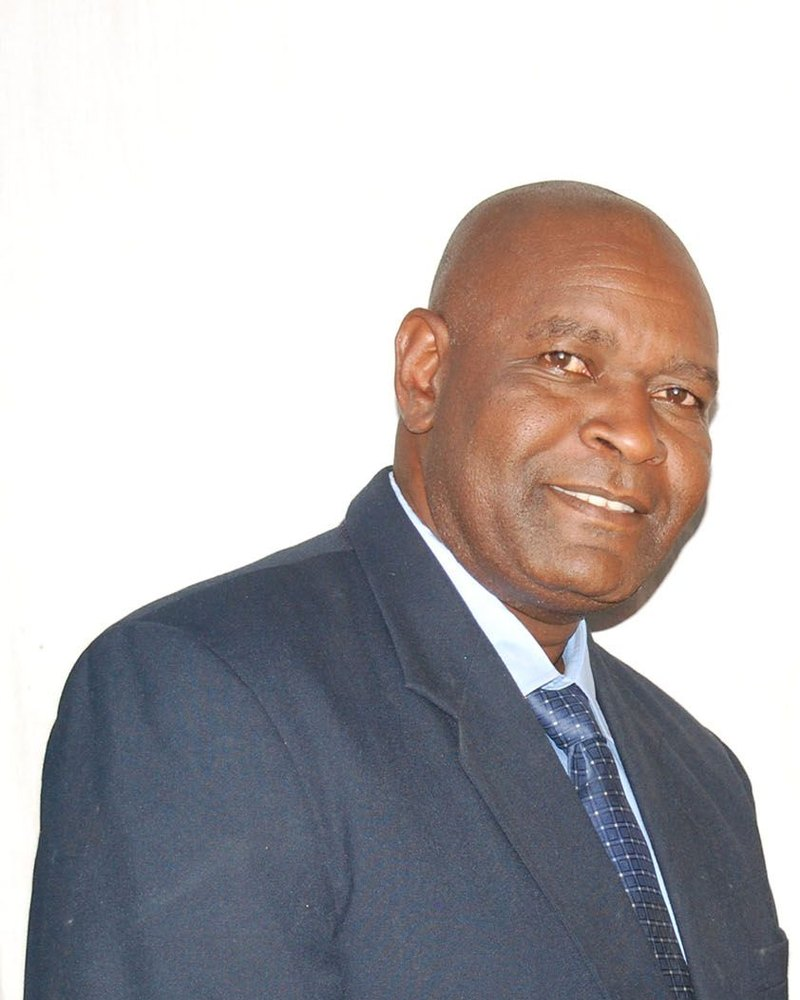
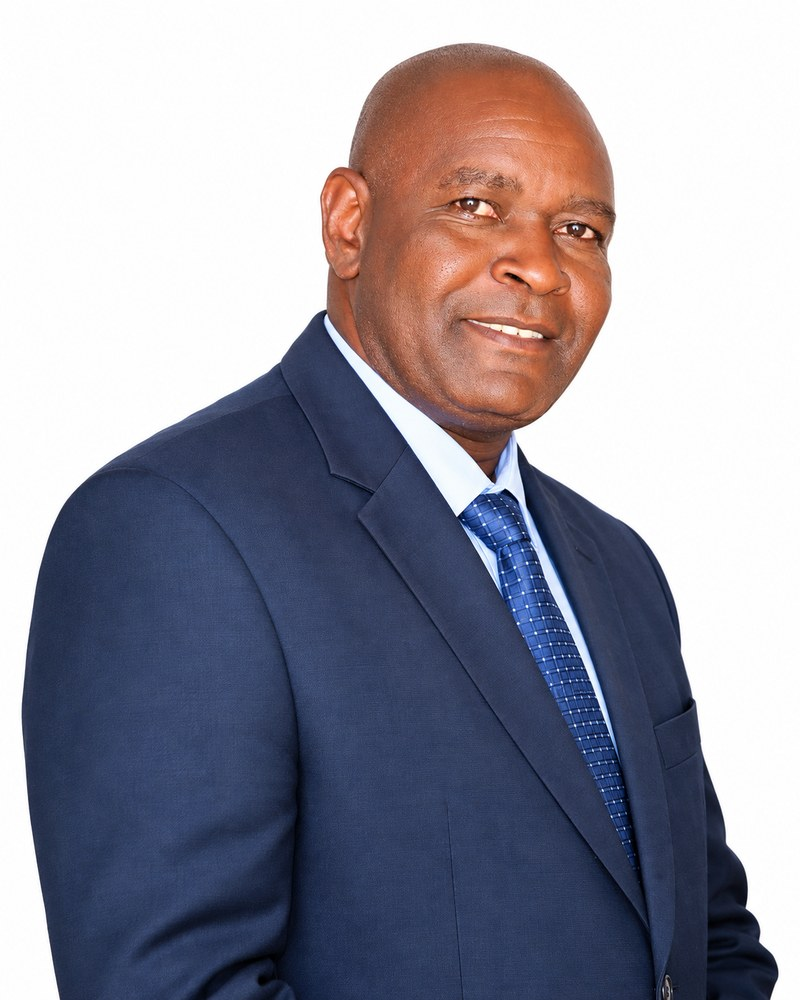
9.69.0: New uniform studio portraits for five leaders
Replaces the portraits for Henry Onzere, Daria Lumati, Kevin Bosire,
Christabel Sagali and Claire Auma with the Foundation's new clean,
white-background studio photographs, cropped to the 4:5 800x1000 frame
used by the leadership cards. Both the bundled set (assets/images/leaders/)
and the media-library copies (assets/images/leader-*.jpg) are updated.

diff --git a/cohf-child/style.css b/cohf-child/style.css
@@ -5,7 +5,7 @@ Template: cohf
 Author: Cistern of Hope Foundation
 Author URI: https://cisternofhope.org
 Description: Premium, human-centred child theme for Cistern of Hope Foundation (COHF), Kenya. Editorial design system, twelve programme areas, impact and story content structures, accountability and partnership architecture, WCAG-conscious markup and a performance-first asset strategy. Motto: Together for a lasting change.
-Version: 9.68.0
+Version: 9.69.0
 Requires at least: 6.2
 Requires PHP: 8.0
 License: GNU General Public License v2 or later

diff --git a/cohf-child/functions.php b/cohf-child/functions.php
@@ -10,7 +10,7 @@
 
 defined( 'ABSPATH' ) || exit;
 
-define( 'COHF_CHILD_VERSION', '9.68.0' );
+define( 'COHF_CHILD_VERSION', '9.69.0' );
 define( 'COHF_CHILD_DIR', get_stylesheet_directory() );
 define( 'COHF_CHILD_URI', get_stylesheet_directory_uri() );
 
